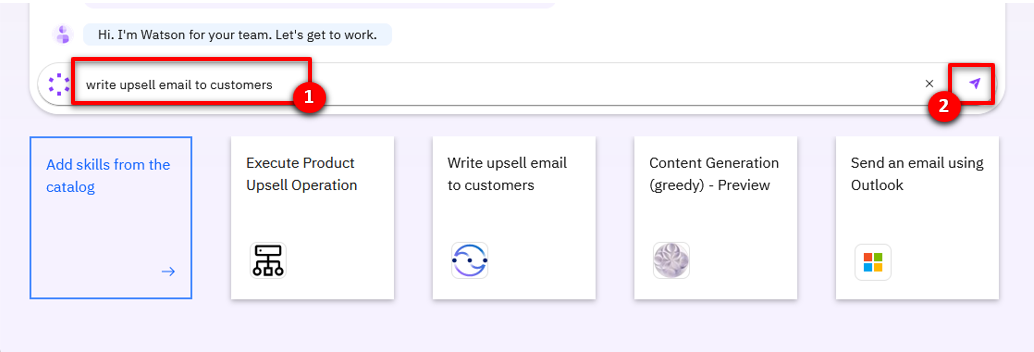
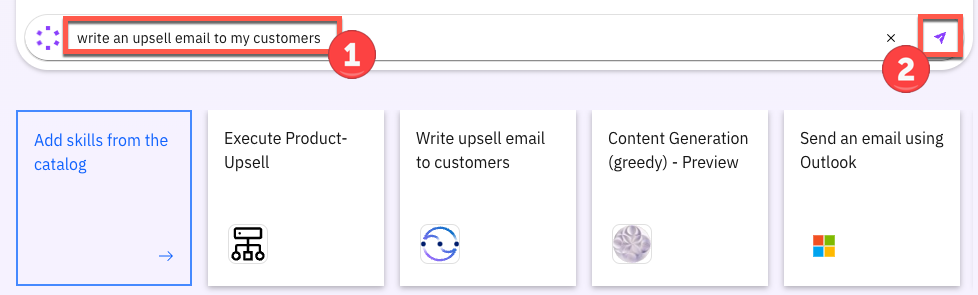
script updated

Changed region(s): [[0.0, 0.3661, 0.9816, 0.9153], [0.0307, 0.0305, 1.0, 0.3661], [0.0, 0.9458, 0.9816, 1.0]]

diff --git a/docs/100-digital-labor-boosting-sales-productivity-with-watsonx-orchestrate/demo-script.md b/docs/100-digital-labor-boosting-sales-productivity-with-watsonx-orchestrate/demo-script.md
@@ -19,17 +19,17 @@ Prior to watsonx Orchestrate, agents in this insurance office dedicated a few ho
 2.	Determine the best cross-sell products to offer each customer.
 3.	Send a personalized email to each customer.
 
-Unfortunately, agents in this office are facing a number of headwinds that hinder their ability to perform at their best:
-- Searching their Salesforce CRM effectively for sales opportunities is time consuming and requires a lot of skill, skills that no everyone on the team possesses.
-- Matching customers circumstances to the most optimal and competitive products is time consuming and requires expert product knowledge.
-- Multiple systems and product spreadsheets are used; it takes time to switch between these applications to find the required information. Data is copied and pasted between applications and inevitably errors are made.
+Unfortunately, agents in this office are facing a number of challenges that hinder their ability to perform at their best:
+- Searching their Salesforce CRM effectively for sales opportunities is time consuming and requires a lot of skill, skills that not everyone on the team possesses.
+- Matching customers circumstances to the most optimal and competitive products is time consuming and requires expert product knowledge. The information about products, customers and policies is spread over multiple systems and spreadsheets.
+- Multiple systems and applications are used; it takes time to switch between these systems to find the required information. Data is copied and pasted between applications and inevitably errors are made.
 - There isn't time to create a personalized email for each customer so instead they use templates, but they know that the emails that are produced this way are often ignored.    
 
 Let's look at how this prospecting work can be done more effectively with watsonx Orchestrate.
-- We’ll use a chat interface to extract data from SalesForce that leverages a pre-configured search to find customers with a recent life events.
+- We’ll use a chat interface to extract data from SalesForce that leverages a pre-configured search to find customers with recent life events.
 - We’ll match these customers to the most suitable and competitive products using an automation that represents the digitized knowledge of a product expert. 
-- Instead of using an email template we’ll feed the customer information and the products details into a generarative AI model, and let AI draft the prospecting email. ready for us to review and embelish with any specific information for this customer.
-- Finally, we’ll automate the creation and dispatch of the email. We’ll get a chance to review it and embelish it with any specific information for this customer - but we won’t have to open Outlook and copy over email addresses and product info.  <br/><br/>
+- Instead of using an email template, we’ll feed the customer information and the products details into a generarative AI model. This model will draft the prospecting email ready for us to review and edit with any specific information for this customer.
+- Finally, we’ll automate the creation and dispatch of the email. We’ll get a chance to review it but we won’t have to open Outlook and copy over email addresses and product info.  <br/><br/>
 
 Let's get started.
 
@@ -46,10 +46,10 @@ Let's get started.
 
 | **1.1** | **Invoke a Salesforce skill using natural language** |
 | :--- | :--- |
-| **Narration** | A common task for an insurance agent is to periodically search the Salesforce CRM for customers with recent life changes to whom they can make upsell/cross-sell offers. Traditionally this task involves creating custom Salesforce reports and downloading them offline for manual review by the agent.<br/><br/> In Orchestrate, the agent invokes the Salesforce task using the simple natural language phrase: "Write upsell email to customers". Orchestrate uses AI to understand the sales agent's intent and performs the correct action, even when the request phrase is ambiguous.|
-| **Action** &nbsp; 1.1.1 | Type the natural language command **'Write upsell email to customers'** (1) and click the **Send arrow** (2) in the chat window.<br/><img src="images/1-1-1.png" width="800" /> |
-| **Narration** | Orchestrate runs the Salesforce task by connecting to a backend API that retrieves a list of customers with recent life events. The returned customer data is neatly displayed in a table within Orchestrate's chat interface.<br/><br/>The agent reviews the list of customers and pursues a cross-sell opportunity with John Collins, who has a child that is about to turn twenty-six. In the US, twenty-six is a milestone requiring children to acquire independent health insurance coverage. (Other countries set different age limits for various family milestones.)|
-| **Action** &nbsp; 1.1.2 | Select **John Collins** (1) from the table and click **Apply** (2) in the chat window. <br/> <img src="images/1-1-2.png" width="800" /> |
+| **Narration** | A common task for an insurance agent is to periodically search their Salesforce (CRM) for customers with recent life events that are good candidates to receive upsell/cross-sell offers. For example, the birth of a child brings focus to life insurance coverage, and so on. Traditionally this task involves creating custom Salesforce reports and downloading them for manual and offline review by the selling agent.<br/><br/> How does this play out with an insurance company using watsonx Orchestrate? The agent invokes the Salesforce search using the simple natural language phrase: "Write an upsell email to my customers". IBM watsonx Orchestrate uses AI to understand the sales agent's intent and performs the correct action, even when the request phrase is ambiguous.|
+| **Action** &nbsp; 1.1.1 | Type the natural language command **'Write an upsell email to my customers'** (1) and click the **Send arrow** (2) in the chat window.<br/><img src="images/1-1-1.png" width="800" /> <br/>**Note:** if you get a response "No skill matches your request. Try rephrasing your question.", please check you have selected **Team skills** from the menu bar. 
+| **Narration** | Orchestrate runs the Salesforce task by connecting to a back-end API that retrieves a list of customers with recent life events. The retrieved customer data is neatly displayed in a table within Orchestrate's chat interface.<br/><br/>The agent reviews the list of customers and pursues a cross-sell opportunity with John Collins, who has a child that recently turned twenty-five. For this product, turning twenty-five is a milestone requiring children to acquire independent health insurance coverage. (Other countries set different age limits for various family milestones.)|
+| **Action** &nbsp; 1.1.2 | Select the radio button associated with **John Collins** (1) from the table and click the **Apply** button (2) in the chat window. <br/> <img src="images/1-1-2.png" width="800" /> |
 
 <br/>
 
@@ -69,8 +69,8 @@ Let's get started.
 
 | **2.1** | **Identify products for cross-sell / upsell** |
 | :--- | :--- |
-| **Narration** | The next task is to determine which products to recommend for the selected customer.<br/><br/> The customer details from Salesforce are automatically submitted into Orchestrate's built-in decision engine and the upsell recommendations are displayed. Behind the scenes, the decision engine applied business logic using many different factors specific to this customer, such as the child’s age, pre-existing conditions, and current coverage.<br/><br/>In the case of John Collins, the decision engine recommends three health insurance plans suitable for his child: Bronze-level Marketplace Plan, Silver-level Marketplace Plan and Short-term Health Insurance.| 
-| **Action** &nbsp; 2.1.1 | Highlight the three insurance plans recommended by the decision skill.<br/><img src="images/2-1-1.png" width="800" /> |
+| **Narration** | Next, the agent needs to determine which products to recommend for John based on his circumstances and recent life event.<br/><br/> The customer details from Salesforce are automatically submitted into Orchestrate's built-in decision engine and the upsell recommendations are displayed. Behind the scenes, the decision engine applied business logic that took into account many different attributes specific to this customer, such as the child’s age, pre-existing conditions, and current coverage. Then it applied product knowledge to determine the best products to recommend.<br/><br/>In the case of John Collins, the decision engine recommended three health insurance plans that are suitable for his child: Bronze-level Marketplace Plan, Silver-level Marketplace Plan, and Short-term Health Insurance.| 
+| **Action** &nbsp; 2.1.1 | Highlight the three insurance plans recommended by the decision skill as you talk about it.<br/><img src="images/2-1-1.png" width="800" /> |
 
 <br/>
 
@@ -88,18 +88,18 @@ Let's get started.
 
 <br/>
 
-| **3.1** | **Use generative AI to write a personalized email** |
+| **3.1** | **Use generative AI to write a personalized email to the client** |
 | :--- | :--- |
-| **Narration** | Personalized emails increase the likelihood of conversion. Watsonx Orchestrate uses one of IBM's Large Language Models (LLMs) via the watsonx.ai platform to generate a targeted email for the selected customer.<br/> Perfecting the AI prompt to generate a properly formatted email is typically a time-consuming activity. To make this quicker, Orchestrate automatically inserts a pre-written AI prompt that includes dynamically inserted customer data in the prompt input field.|
-| **Action** &nbsp; 3.1.1 | In the prompt field, **highlight** (1) the input text with embedded recommended products to show how data from the decision engine has been automatically inserted. Click **Apply** (2).<br/><img src="images/3-1-1.png" width="800" /> |
+| **Narration** | Personalized emails increase the likelihood of conversion. Watsonx Orchestrate uses one of IBM's Large Language Models (LLM's), built on the watsonx.ai platform. This model generates a personalized email for the selected customer. Perfecting the AI prompt to generate a properly formatted email is typically a time-consuming activity. To make this faster and repeatable for insurance sellers, watsonx Orchestrate uses a template AI prompt to which it adds the dynamic customer and product data.|
+| **Action** &nbsp; 3.1.1 | In the **Prompt** field, **highlight** (1) the generated prompt that includes the recommended products to show how data from the decision engine has been automatically inserted. Now click **Apply** (2).<br/><img src="images/3-1-1.png" width="800" /> |
 
 <br/>
 
-| **3.2** | **Use the Microsoft Outlook skill to send a personalized email** |
+| **3.2** | **Use watsonx Orchestrate's built-in Microsoft Outlook skill to send a personalized email to the client** |
 | :--- | :--- |
-| **Narration** | Orchestrate launches its out-of-the-box Microsoft Outlook skill to send an email without the agent needing to use an email client. In addition to pre-populating the **To** and **Subject** fields, Orchestrate automatically inserts the AI-generated text into the **body** field.|
-| **Action** &nbsp; 3.2.1 | Review the email and point out the text generated by watsonx.ai that was automatically inserted into the **body** field.<br/> <img src="images/3-1-4.png" width="800" />|
-| **Action** &nbsp; 3.2.2 | Change the email address in the **To** (1) field to your own email.<br/> <img src="images/3-1-3.png" width="800" /> <br/><br/>Scroll down and click **Apply** (2) in the watsonx Orchestrate chat window.<br/><img src="images/3-1-5.png" width="800" />|
+| **Narration** | IBM watsonx Orchestrate launches its out-of-the-box Outlook skill and pre-fills the form with the customer contact details and the generated email containing the proposal. The insurance seller can now review the generated content to ensure it is accurate and add any further information to ensure the proposal is relevant to John. The IBM provided generative models are specifically trained on curated data to produce output suitable for business purposes, but we still require the agent to review it. This 'human in the loop" approach is vital, we want to save time by leveraging AI to generate the bulk of the content, but we still want agent to have overall control. <br/><br/>Since we're using a built-in skill to handle the Outlook email the agent doesn't need to open their Outlook client, the **To** and **Subject** fields have been pre-populated and the AI-generated text has been inserted into the **content** field.|
+| **Action** &nbsp; 3.2.1 | Review the generated email and edit if necessary and discuss the text generated by watsonx.ai that was automatically inserted into the **content** field.<br/> <img src="images/3-1-4.png" width="800" /><br/><br/>**Note:** LLM's are non-deterministic, for the same input they can generate slightly different output. The models are contstantly retraining and evolving so your output may differ.|
+| **Action** &nbsp; 3.2.2 | Change the email address in the **To** (1) field to your own email.<br/> <img src="images/3-1-3.png" width="800" /> <br/><br/>Scroll down and click **Apply** (2) in the watsonx Orchestrate chat window.<br/><img src="images/3-1-5.png" width="800" /> <br/>IBM watsonx Orchestrate will tell you that the email was sent. <img src="images/3-1-6.png" width="800" />|
 
  
 <br/>
@@ -117,9 +117,11 @@ Let's get started.
 <summary>Summary</summary>
 
 <br/> 
-Using an upsell/cross-sell example, we demonstrated how watsonx Orchestrate provides a conversational interface for sales agents to perform their repetitive tasks.
+Using an upsell/cross-sell example, this lab showed how watsonx Orchestrate provides a conversational interface for insurance sales agents to perform their repetitive tasks and reduce the time it takes to complete common business tasks, such as searching through CRM reports for sales opportunities.
 
-By providing a catalog of skills, Orchestrate eliminated the need to manually move data between different backend applications. Watsonx Orchestrate streamlined the agent's work by sequencing a series of skills within a single unified interface, boosting the agent's productivity and enabling them to focus on higher value work.
+Product expertise was used to create an automation that provided optimal product recommendations and an LLM was used to generate the draft proposal for the agent to review. 
+
+By providing a catalog of skills, watsonx Orchestrate eliminated the need for the insurance agent to manually move data between different back-end applications. Watsonx Orchestrate streamlined the agent's work by sequencing a series of skills within a single unified interface, boosting this agent's productivity, reducing errors and enabling them to focus on higher value work.
 
 Thank you for attending today’s presentation.
 

diff --git a/docs/100-digital-labor-boosting-sales-productivity-with-watsonx-orchestrate/demo-preparation.md b/docs/100-digital-labor-boosting-sales-productivity-with-watsonx-orchestrate/demo-preparation.md
@@ -12,10 +12,10 @@ banner: images/wxo_100_prep_banner.jpg
 
 | **DEMO OVERVIEW** | | 
 | :---         | :--- |
-| **Scenario overview** | This demo shows how watsonx Orchestrate can be used by sales representatives to assist with the cross-sell/upsell opporunities. To illustrate this, this lab takes on the persona of an insurance seller uses watsonx Orchestrate to retrieve a list of customers from Salesforce, make product recommendations, then generate a personalized offer that is sent using Outlook.|
+| **Scenario overview** | This demo shows how watsonx Orchestrate can be used by sales representatives to assist with the cross-sell/upsell opporunities. To illustrate this, this lab takes on the persona of an insurance seller using watsonx Orchestrate to retrieve a list of customers from Salesforce, make product recommendations, then generate a personalized offer that is sent using Outlook.|
 | **Products used in this demo** | IBM watsonx Orchestrate |
 | **watsonx Orchestrate Skills used in this demo** | IBM watsonx.ai generative AI; Salesforce; Microsoft Outlook; Embedded decision automation|
-| **Demo script** | A complete demo script is provided [here](demo-script). This link takes you to the second tab at the top of this page. <br/><br/> This demo script has multiple tasks that each have multiple steps. In each step, you have the details about what you need to do (**Actions**), what you can say while delivering this demo step (**Narration**), and what screenshots you will see.<br/><br/>This demo script provides a suggested narrative. You are welcome to customize it based on your sales opportunity. Learn to describe the value of watsonX Orchestrate using the watsonx Orchestrate Level 2 learning (<a href="https://yourlearning.ibm.com/activity/PLAN-7C5500E80F26" target="_blank" rel="noreferrer">IBM</a> <a href="https://learn.ibm.com/course/view.php?id=13175" target="_blank" rel="noreferrer">BP</a>).  Most importantly, practice this demo in advance. If the demo seems easy for you to do, the client will focus on you and your messaging and appreciate the simplicity the content. If it seems difficult to use, the client will come away with this impression. Remember, practice makes perfect. |
+| **Demo script** | A complete demo script is provided [here](demo-script). This link takes you to the second tab at the top of this page. <br/><br/> This demo script has multiple tasks that each have multiple steps. In each step, you have the details about what you need to do (**Actions**), what you can say while delivering this demo step (**Narration**), and what screenshots you will see.<br/><br/>This demo script provides a suggested narrative. You are welcome to customize it based on your sales opportunity. Learn to describe the value of watsonX Orchestrate using the watsonx Orchestrate Level 2 learning (<a href="https://yourlearning.ibm.com/activity/PLAN-7C5500E80F26" target="_blank" rel="noreferrer">IBM</a> <a href="https://learn.ibm.com/course/view.php?id=13175" target="_blank" rel="noreferrer">BP</a>).  Most importantly, practice this demo in advance. If the demo seems easy for you to do, the client will focus on you and your messaging and appreciate the simplicity the content. If the demo seems difficult to use, the client will come away with this impression. Remember, practice makes perfect. |
 | **Applicable learning plans** | This demo is used in the following learning plans: <br/> • watsonx Orchestrate Level 3 for Sales <a href="https://yourlearning.ibm.com/activity/PLAN-07001C92F201" target="_blank" rel="noreferrer">IBM</a> <a href="https://learn.ibm.com/course/view.php?id=15985" target="_blank" rel="noreferrer">BP</a>  <br/> •  watsonx Orchestrate Level 3 for Technical Sales <a href="https://yourlearning.ibm.com/activity/PLAN-B4BFAE1FED99" target="_blank" rel="noreferrer">IBM</a> (BP learning plan coming Q1 2024)<br/><br/> Use this demo as credit towards the <a href="https://www.credly.com/org/ibm/badge/watsonx-orchestrate-sales-intermediate" target="_blank" rel="noreferrer">watsonx Orchestrate Sales Intermediate badge</a>. A Technical Sales Intermediate badge that also uses this demo will be available in Q1 2024.|
 | **How to get support** | • If you are a BP and require assistance please open a support case at <a href="https://techzone.ibm.com/help" target="_blank" rel="noreferrer">IBM Technology Zone Help</a>.<br/>• IBMers can use the <a href="https://ibm-cloud.slack.com/archives/C0216F39ACU" target="_blank" rel="noreferrer">#platinumdemos-automation-support</a> Slack channel. |
 
